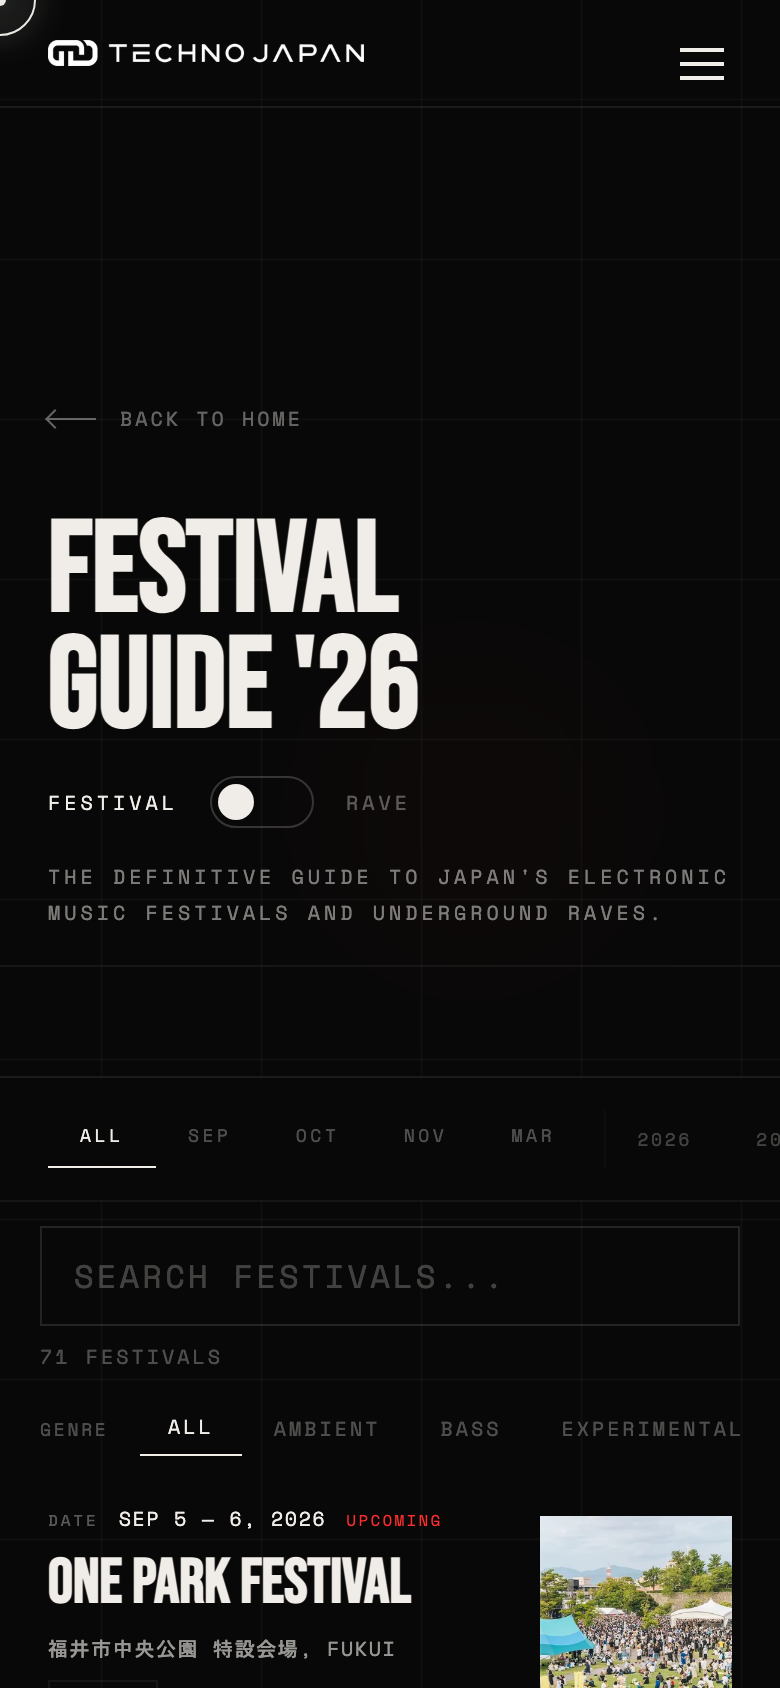
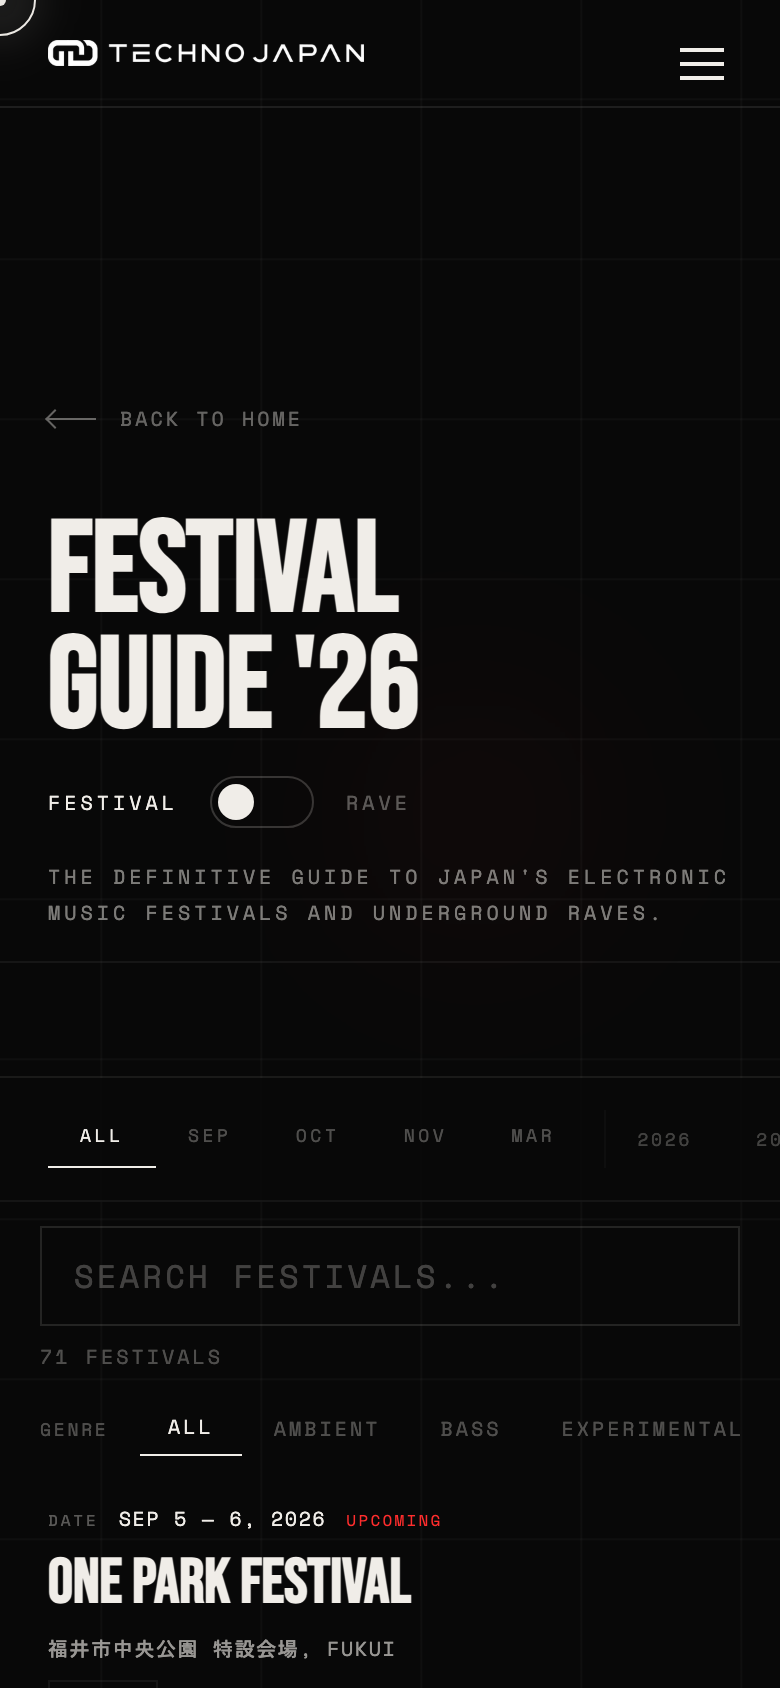
fix: simplify mobile festival list visuals

Changed region(s): [[0.6769, 0.8934, 0.9538, 1.0]]

diff --git a/LP/en/festivals.html b/LP/en/festivals.html
@@ -524,7 +524,7 @@ footer { padding: 60px 40px; }
   z-index: 0;
   pointer-events: none;
 }
-.festival-list-visual-a .festival-row.has-visual .festival-row-grid,
+.festival-list-visual-a .festival-row .festival-row-grid,
 .festival-list-visual-b .festival-row.has-visual .festival-row-grid {
   position: relative;
   z-index: 2;
@@ -590,7 +590,9 @@ body.rave-mode .festival-row-status { color: var(--accent); }
   .festival-row .fest-fav-mount { grid-column: 2; grid-row: 3; justify-self: end; }
   .festival-row-name { font-size: clamp(25px, 8vw, 38px); }
   .festival-row { --festival-row-visual-width: 96px; min-height: 112px; }
-  .festival-list-visual-a .festival-row.has-visual .festival-row-grid { padding-right: calc(var(--festival-row-visual-width) + 14px); }
+  /* モバイルは画像を出さず、画像の有無で本文幅を変えない。 */
+  .festival-list-visual-a .festival-row .festival-row-grid { padding-right: 0; }
+  .festival-list-visual-a .festival-row.has-visual .festival-row-visual-a { display: none; }
   .festival-row-visual-a { border-left: 1px solid rgba(240,237,232,.1); }
   .festival-list-visual-b .festival-row.has-visual .festival-row-grid { padding-right: 112px; }
   .festival-list-visual-b .festival-row-date-visual { right: 14px; font-size: 30px; }

diff --git a/LP/festivals.html b/LP/festivals.html
@@ -524,7 +524,7 @@ footer { padding: 60px 40px; }
   z-index: 0;
   pointer-events: none;
 }
-.festival-list-visual-a .festival-row.has-visual .festival-row-grid,
+.festival-list-visual-a .festival-row .festival-row-grid,
 .festival-list-visual-b .festival-row.has-visual .festival-row-grid {
   position: relative;
   z-index: 2;
@@ -590,7 +590,9 @@ body.rave-mode .festival-row-status { color: var(--accent); }
   .festival-row .fest-fav-mount { grid-column: 2; grid-row: 3; justify-self: end; }
   .festival-row-name { font-size: clamp(25px, 8vw, 38px); }
   .festival-row { --festival-row-visual-width: 96px; min-height: 112px; }
-  .festival-list-visual-a .festival-row.has-visual .festival-row-grid { padding-right: calc(var(--festival-row-visual-width) + 14px); }
+  /* モバイルは画像を出さず、画像の有無で本文幅を変えない。 */
+  .festival-list-visual-a .festival-row .festival-row-grid { padding-right: 0; }
+  .festival-list-visual-a .festival-row.has-visual .festival-row-visual-a { display: none; }
   .festival-row-visual-a { border-left: 1px solid rgba(240,237,232,.1); }
   .festival-list-visual-b .festival-row.has-visual .festival-row-grid { padding-right: 112px; }
   .festival-list-visual-b .festival-row-date-visual { right: 14px; font-size: 30px; }

diff --git a/LP/en/venues.html b/LP/en/venues.html
@@ -82,12 +82,7 @@
   content: ''; position: absolute; inset: 0;
   background: linear-gradient(90deg, rgba(8,8,8,.02), rgba(8,8,8,.18)); pointer-events: none;
 }
-.venue-card::before {
-  content: ''; position: absolute; bottom: 0; left: 0; right: 0; height: 100%;
-  background: rgba(240,237,232,0.03); transform: scaleY(0); transform-origin: bottom;
-  transition: transform 0.5s cubic-bezier(0.16, 1, 0.3, 1);
-}
-.venue-card:hover::before { transform: scaleY(1); }
+/* 画像自体がホバー時の視線誘導を担うため、面を塗る演出は重ねない。 */
 .venue-card:hover { border-color: rgba(240,237,232,0.15); }
 .venue-card-content { position: relative; z-index: 1; }
 .venue-card-city { font-family: var(--font-mono); font-size: 9px; letter-spacing: 0.2em; text-transform: uppercase; opacity: 0.3; margin-bottom: 16px; }

diff --git a/LP/venues.html b/LP/venues.html
@@ -82,12 +82,7 @@
   content: ''; position: absolute; inset: 0;
   background: linear-gradient(90deg, rgba(8,8,8,.02), rgba(8,8,8,.18)); pointer-events: none;
 }
-.venue-card::before {
-  content: ''; position: absolute; bottom: 0; left: 0; right: 0; height: 100%;
-  background: rgba(240,237,232,0.03); transform: scaleY(0); transform-origin: bottom;
-  transition: transform 0.5s cubic-bezier(0.16, 1, 0.3, 1);
-}
-.venue-card:hover::before { transform: scaleY(1); }
+/* 画像自体がホバー時の視線誘導を担うため、面を塗る演出は重ねない。 */
 .venue-card:hover { border-color: rgba(240,237,232,0.15); }
 .venue-card-content { position: relative; z-index: 1; }
 .venue-card-city { font-family: var(--font-mono); font-size: 9px; letter-spacing: 0.2em; text-transform: uppercase; opacity: 0.3; margin-bottom: 16px; }
